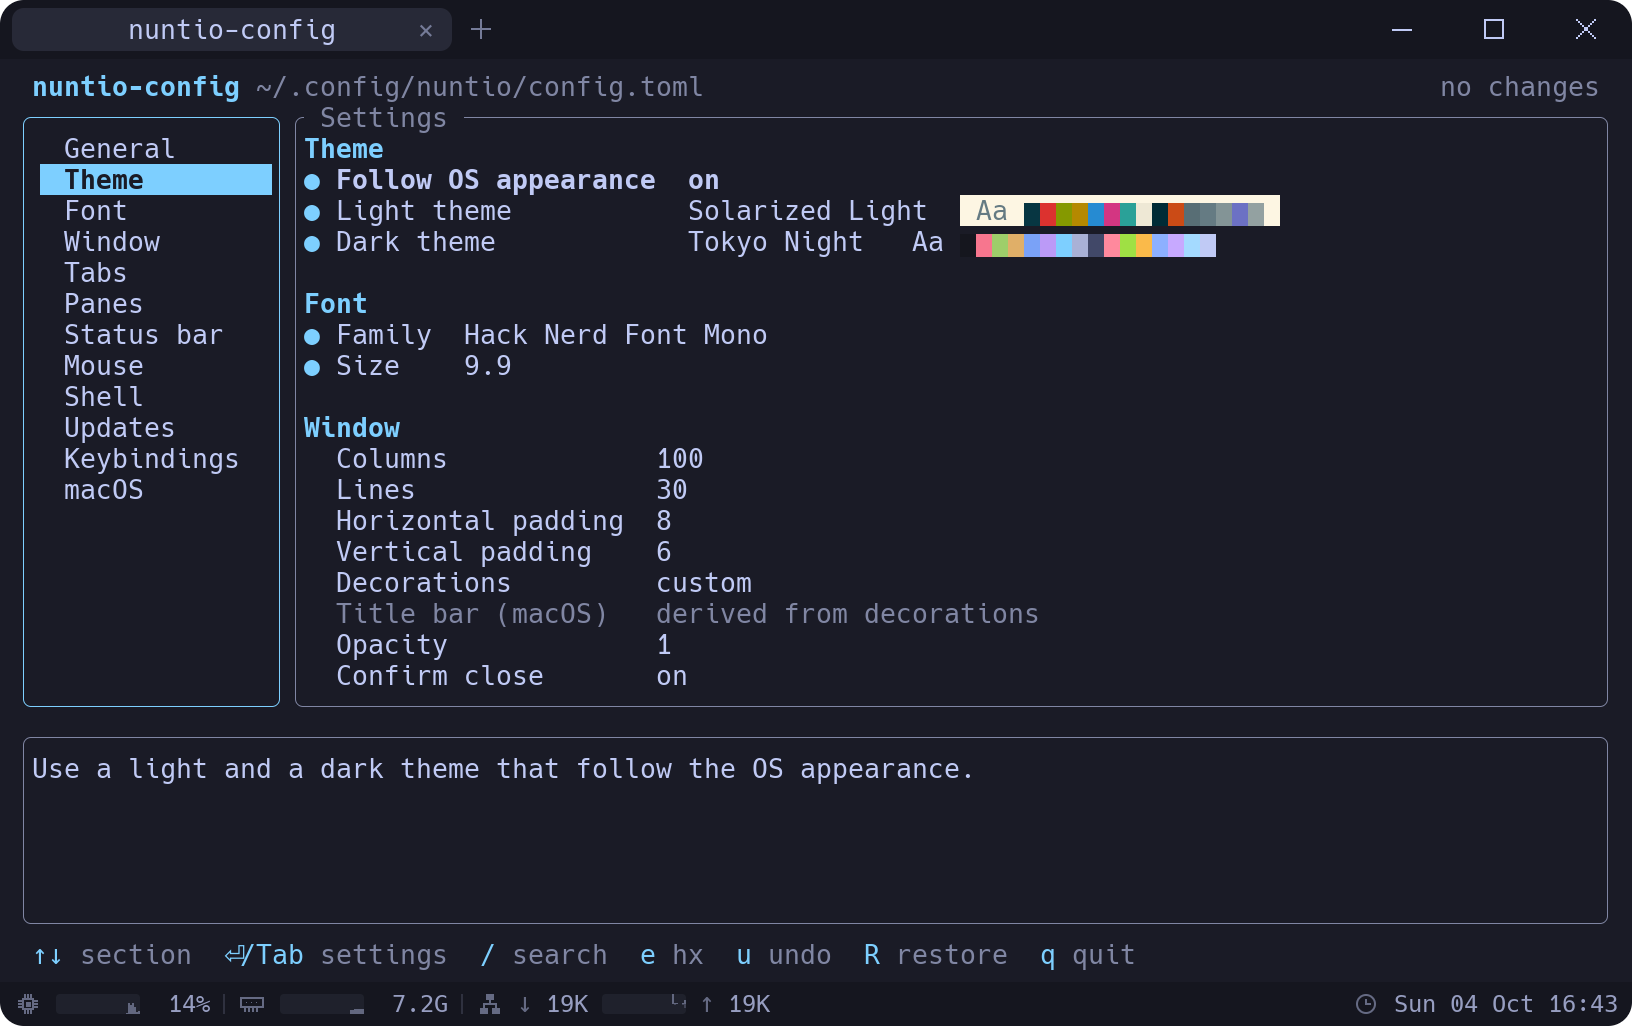
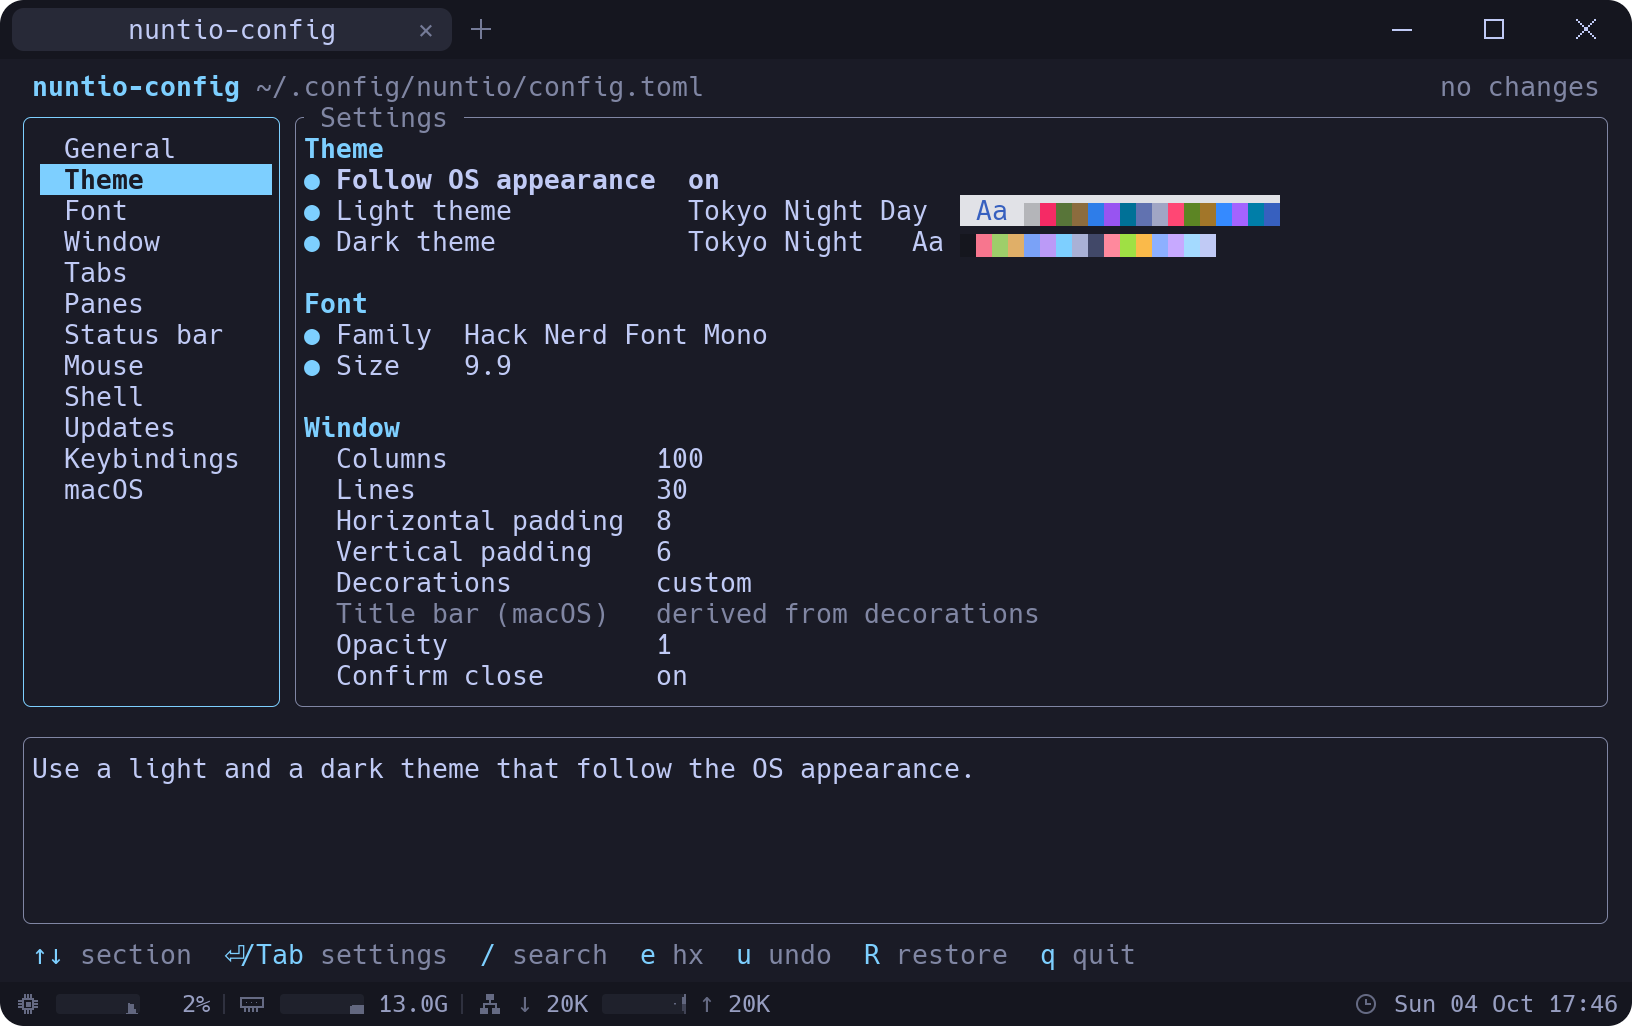
Pair Tokyo Night Day with Tokyo Night in the theme examples

diff --git a/site/templates/index.html b/site/templates/index.html
@@ -104,7 +104,7 @@ size = <span class="c-o">14.0</span>
 
 <span class="c-c"># Follow the OS appearance</span>
 <span class="c-m">[theme]</span>
-light = <span class="c-y">"Solarized Light"</span>
+light = <span class="c-y">"Tokyo Night Day"</span>
 dark = <span class="c-y">"Tokyo Night"</span></code></pre>
       </div>
     </div>

diff --git a/README.md b/README.md
@@ -126,7 +126,7 @@ size = 14.0
 
 # Follow the OS appearance
 [theme]
-light = "Solarized Light"
+light = "Tokyo Night Day"
 dark = "Tokyo Night"
 
 [panes]
